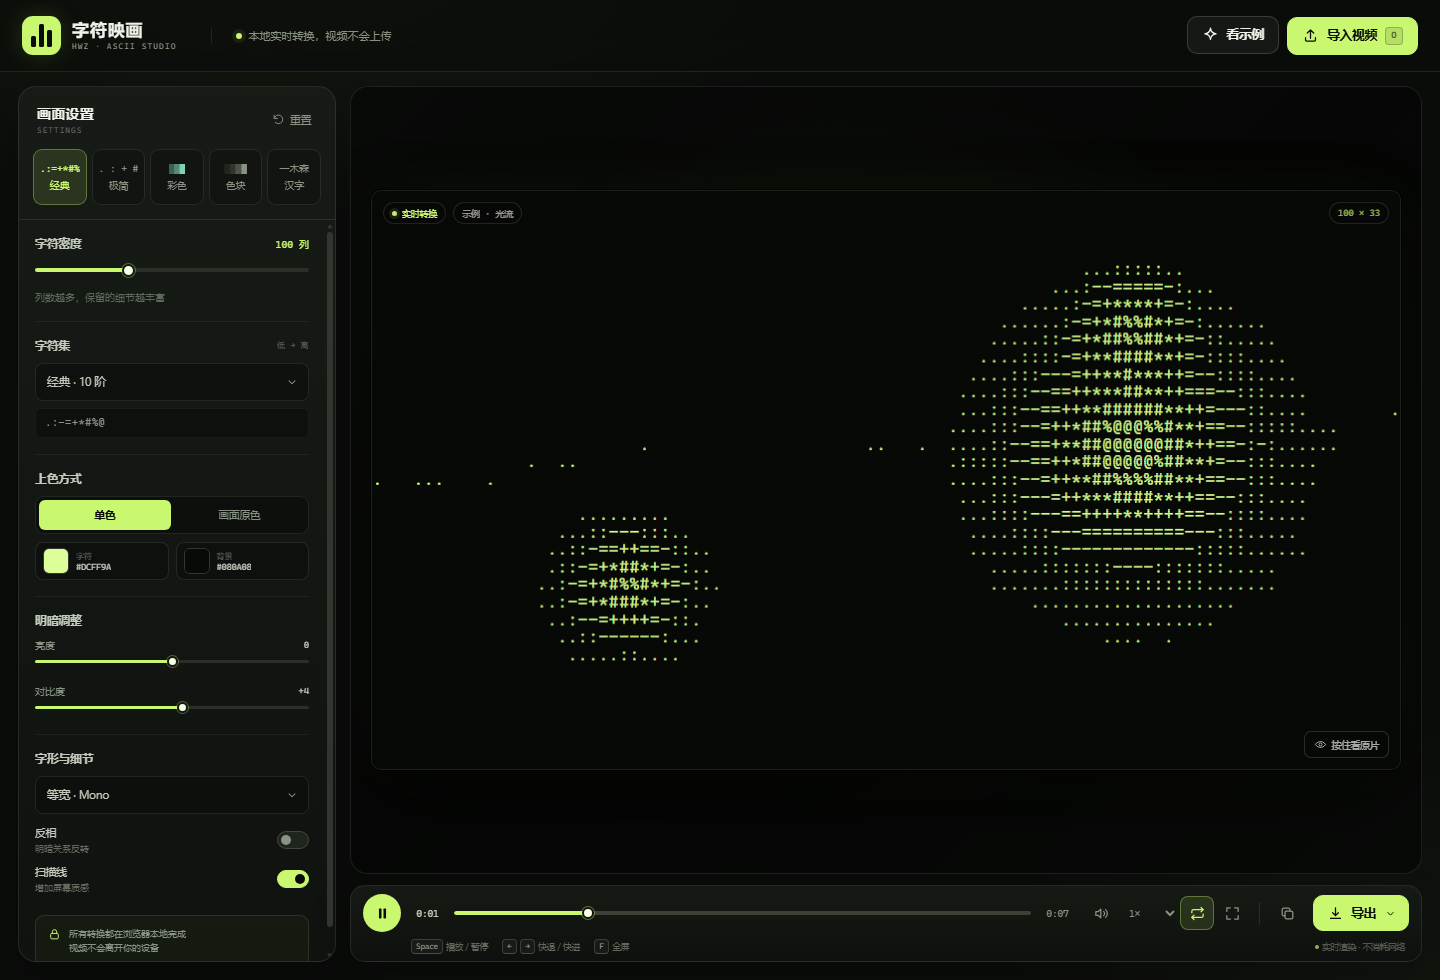
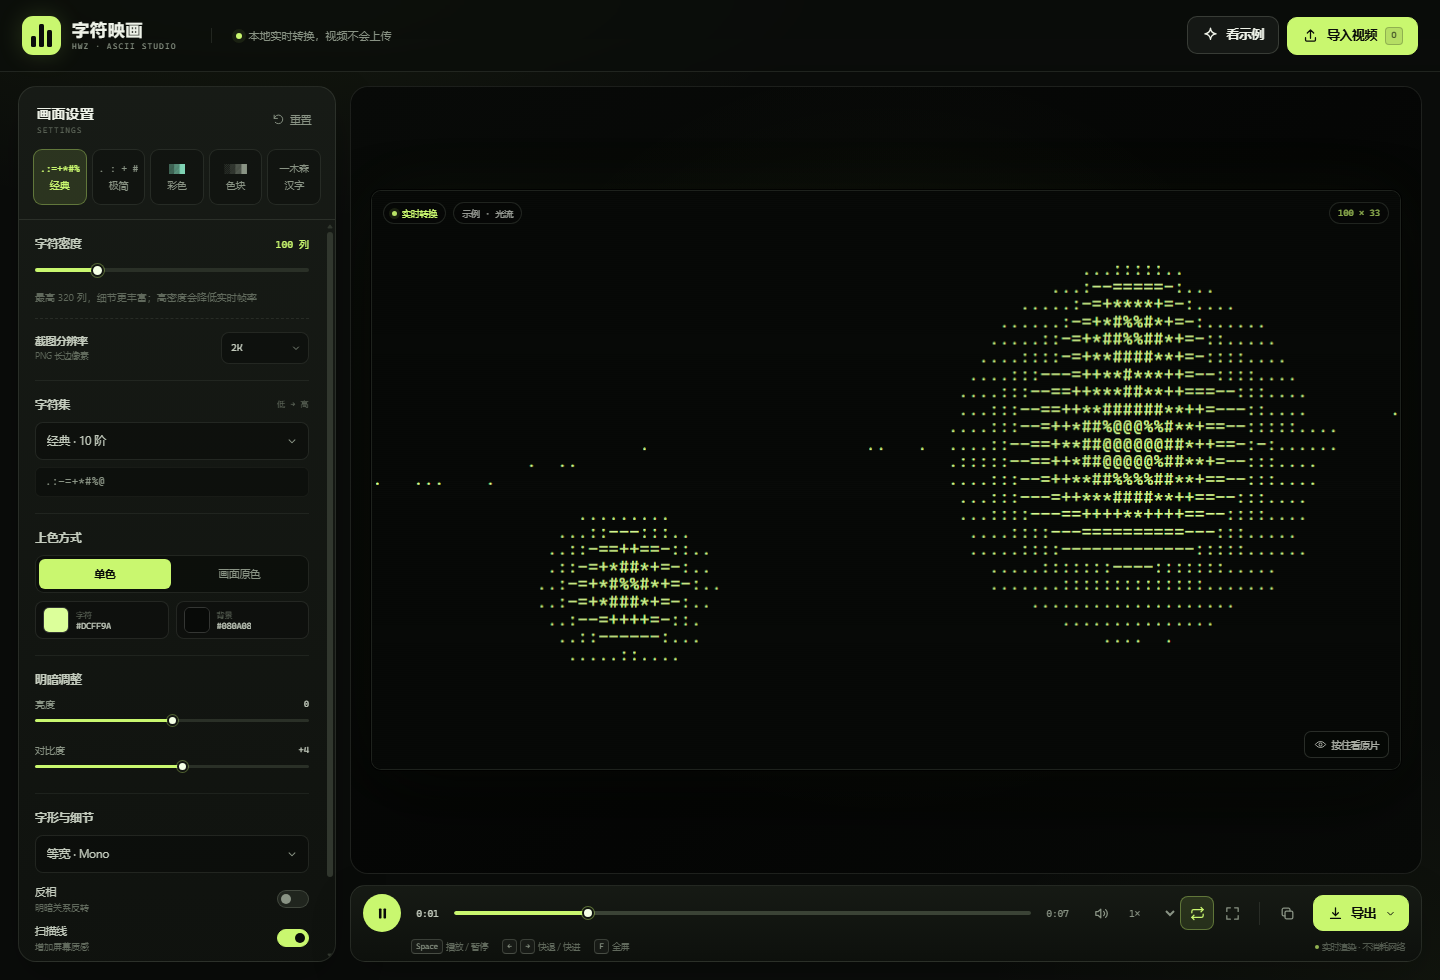
feat: add high-resolution output options

diff --git a/app.js b/app.js
@@ -124,6 +124,7 @@
     invert: false,
     font: "mono",
     scanline: true,
+    outputRes: 2560,
   });
 
   const PRESETS = {
@@ -298,6 +299,7 @@
     font: null,
     invert: null,
     scanline: null,
+    outputRes: null,
     dialog: null,
     dialogTitle: null,
     dialogKicker: null,
@@ -378,6 +380,7 @@
     el.font = $("#font");
     el.invert = $("#invert");
     el.scanline = $("#scanline");
+    el.outputRes = $("#outputRes");
     el.dialog = $("#exportDialog");
     el.dialogTitle = $("#dialogTitle");
     el.dialogKicker = $("#dialogKicker");
@@ -444,6 +447,7 @@
     if (typeof raw.invert === "boolean") next.invert = raw.invert;
     if (Object.prototype.hasOwnProperty.call(FONTS, raw.font)) next.font = raw.font;
     if (typeof raw.scanline === "boolean") next.scanline = raw.scanline;
+    if ([1920, 2560, 3840].includes(Number(raw.outputRes))) next.outputRes = Number(raw.outputRes);
     return next;
   }
 
@@ -610,6 +614,7 @@
     el.font.value = s.font;
     el.invert.checked = s.invert;
     el.scanline.checked = s.scanline;
+    el.outputRes.value = String(s.outputRes);
 
     $$(".preset").forEach((button) => {
       button.classList.toggle("is-active", button.dataset.preset === state.activePreset);
@@ -1121,7 +1126,7 @@
     return lines.join("\n");
   }
 
-  function makeOutputCanvas(longSide = 1920) {
+  function makeOutputCanvas(longSide = 2560) {
     if (!state.hasVideo) return null;
     const aspect = state.videoAspect || 16 / 9;
     let width;
@@ -1219,7 +1224,7 @@
     el.stageFrame.style.width = `${width}px`;
     el.stageFrame.style.height = `${height}px`;
 
-    const dpr = Math.min(window.devicePixelRatio || 1, 2, 2300 / width);
+    const dpr = Math.min(window.devicePixelRatio || 1, 2.5, 3200 / width);
     const backingW = Math.max(2, Math.round(width * dpr));
     const backingH = Math.max(2, Math.round(height * dpr));
     if (el.canvas.width !== backingW || el.canvas.height !== backingH) {
@@ -1238,7 +1243,11 @@
   function tick(now) {
     requestAnimationFrame(tick);
 
-    if (state.recording && now - state.lastRecordAt >= 1000 / 30) {
+    const cells = state.grid.cols * state.grid.rows;
+    const heavyGrid = cells > 22000;
+    const recordInterval = heavyGrid ? 50 : 1000 / 30;
+
+    if (state.recording && now - state.lastRecordAt >= recordInterval) {
       state.lastRecordAt = now;
       renderRecordFrame();
     }
@@ -1252,7 +1261,14 @@
     }
 
     if (el.video.readyState < 2) return;
-    const frameInterval = state.recording ? 110 : 34;
+    let frameInterval = 34;
+    if (state.recording) {
+      frameInterval = heavyGrid ? 200 : 110;
+    } else if (cells > 18000) {
+      frameInterval = 66;
+    } else if (cells > 10000) {
+      frameInterval = 45;
+    }
     if ((state.needsRender || (!el.video.paused && !el.video.ended)) && now - state.lastPreviewAt >= frameInterval) {
       state.lastPreviewAt = now;
       renderPreview();
@@ -1405,7 +1421,7 @@
       if (wasPlaying) playVideo();
       return;
     }
-    const out = makeOutputCanvas(1920);
+    const out = makeOutputCanvas([1920, 2560, 3840].includes(state.settings.outputRes) ? state.settings.outputRes : 2560);
     if (!out) return;
     drawAsciiFrame(out.getContext("2d", { alpha: false }), out.width, out.height, state.grid.cols, state.grid.rows, data);
     const blob = await new Promise((resolve) => out.toBlob(resolve, "image/png"));
@@ -1537,6 +1553,22 @@
     return { start, end, duration, valid: end - start >= 0.025 };
   }
 
+  function getRecordDimensions(quality, aspect = state.videoAspect || 16 / 9) {
+    const shortSide = [720, 1080, 1440, 2160].includes(Number(quality)) ? Number(quality) : 1080;
+    let width;
+    let height;
+    if (aspect >= 1) {
+      height = shortSide;
+      width = Math.round(height * aspect);
+    } else {
+      width = shortSide;
+      height = Math.round(width / aspect);
+    }
+    width = Math.max(2, width - (width % 2));
+    height = Math.max(2, height - (height % 2));
+    return { width, height };
+  }
+
   function updateDialogSummary() {
     if (!state.dialogKind) return;
     const summaryMain = $(".summary-main", el.exportSummary);
@@ -1547,10 +1579,11 @@
       const fromBeginning = $('input[name="recordStart"]:checked')?.value === "beginning";
       const start = fromBeginning ? 0 : el.video.currentTime;
       const remaining = Math.max(0, el.video.duration - start);
-      const quality = `${el.recordQuality.value}p`;
+      const quality = Number.parseInt(el.recordQuality.value, 10) || 1080;
+      const dimensions = getRecordDimensions(quality);
       const audio = el.recordAudio.checked ? "含声音轨" : "无声音轨";
-      summaryMain.textContent = `预计录制 ${formatTime(remaining)} · ${quality}`;
-      summarySub.textContent = `从 ${formatTime(start)} 开始 · ${audio} · 30 fps · ${state.grid.cols} × ${state.grid.rows} 字符`;
+      summaryMain.textContent = `预计录制 ${formatTime(remaining)} · ${quality}p · ${dimensions.width} × ${dimensions.height}`;
+      summarySub.textContent = `从 ${formatTime(start)} 开始 · ${audio} · 30 fps · ${state.grid.cols} × ${state.grid.rows} 字符${quality >= 2160 ? " · 4K 输出 WebM" : ""}`;
       if (remaining < 0.6) {
         summaryMain.textContent = "当前位置已接近视频结尾";
         summaryMain.classList.add("summary-warn");
@@ -2088,18 +2121,23 @@
      Recording
      ============================================================ */
 
-  function chooseRecorderMime() {
+  function chooseRecorderMime(quality = 1080) {
     if (typeof MediaRecorder === "undefined") return "";
-    const candidates = [
-      "video/mp4;codecs=avc1.42E01E,mp4a.40.2",
-      "video/mp4;codecs=avc1.42E01E",
-      "video/mp4",
+    const webm = [
       "video/webm;codecs=vp9,opus",
       "video/webm;codecs=vp8,opus",
       "video/webm;codecs=vp9",
       "video/webm;codecs=vp8",
       "video/webm",
     ];
+    const mp4 = [
+      "video/mp4;codecs=avc1.42E01E,mp4a.40.2",
+      "video/mp4;codecs=avc1.42E01E",
+      "video/mp4",
+    ];
+    // H.264 MP4 is the best choice for 1080p/1440p. For 4K, VP9 WebM
+    // starts encoding more reliably in browsers and has broad support.
+    const candidates = quality >= 2160 ? [...webm, ...mp4] : [...mp4, ...webm];
     for (const type of candidates) {
       try {
         if (MediaRecorder.isTypeSupported(type)) return type;
@@ -2146,7 +2184,7 @@
 
   async function startRecording({ startAt, quality, includeAudio }) {
     if (state.recording) return;
-    const mime = chooseRecorderMime();
+    const mime = chooseRecorderMime(quality);
     if (!mime) {
       showToast("当前浏览器不支持 WebM 录制", "error");
       return;
@@ -2163,18 +2201,7 @@
       await seekVideo(startAt);
       await waitForVideoFrame();
 
-      const aspect = state.videoAspect || 16 / 9;
-      let width;
-      let height;
-      if (aspect >= 1) {
-        width = quality;
-        height = Math.round(width / aspect);
-      } else {
-        height = quality;
-        width = Math.round(height * aspect);
-      }
-      width = Math.max(2, width - (width % 2));
-      height = Math.max(2, height - (height % 2));
+      const { width, height } = getRecordDimensions(quality);
 
       const recordCanvas = document.createElement("canvas");
       recordCanvas.width = width;
@@ -2190,9 +2217,10 @@
         stream.addTrack(state.audioDest.stream.getAudioTracks()[0]);
       }
 
+      const videoBitrate = quality >= 2160 ? 24000000 : quality >= 1440 ? 18000000 : quality >= 1080 ? 10000000 : 5000000;
       const options = {
         mimeType: mime,
-        videoBitsPerSecond: quality >= 1440 ? 14000000 : quality >= 1080 ? 9000000 : 5000000,
+        videoBitsPerSecond: videoBitrate,
       };
       if (audioIncluded) options.audioBitsPerSecond = 128000;
 
@@ -2365,6 +2393,12 @@
     el.font.addEventListener("change", () => commitSettings({ font: el.font.value }));
     el.invert.addEventListener("change", () => commitSettings({ invert: el.invert.checked }));
     el.scanline.addEventListener("change", () => commitSettings({ scanline: el.scanline.checked }));
+    el.outputRes.addEventListener("change", () => {
+      const value = Number(el.outputRes.value) || 2560;
+      commitSettings({ outputRes: value });
+      const label = el.outputRes.selectedOptions[0]?.textContent || `${value}px`;
+      showToast(`截图分辨率：${label}`);
+    });
 
     el.playBtn.addEventListener("click", togglePlay);
     el.seek.addEventListener("pointerdown", () => { state.scrubbing = true; });

diff --git a/index.html b/index.html
@@ -111,8 +111,22 @@
               <label for="density">字符密度</label>
               <output id="densityOut" for="density">100 列</output>
             </div>
-            <input id="density" class="range" type="range" min="40" max="220" step="2" value="100">
-            <p class="hint">列数越多，保留的细节越丰富</p>
+            <input id="density" class="range" type="range" min="40" max="320" step="2" value="100">
+            <p class="hint">最高 320 列，细节更丰富；高密度会降低实时帧率</p>
+            <div class="resolution-row">
+              <span class="resolution-copy">
+                <span>截图分辨率</span>
+                <small>PNG 长边像素</small>
+              </span>
+              <span class="select-wrap resolution-select">
+                <select id="outputRes" aria-label="PNG 截图分辨率">
+                  <option value="1920">1080P</option>
+                  <option value="2560">2K</option>
+                  <option value="3840">4K</option>
+                </select>
+                <svg class="icon select-chevron"><use href="#i-chevron"></use></svg>
+              </span>
+            </div>
           </section>
 
           <section class="control-group">
@@ -444,6 +458,7 @@
               <option value="720">720p</option>
               <option value="1080" selected>1080p</option>
               <option value="1440">1440p</option>
+              <option value="2160">2160p · 4K</option>
             </select>
             <svg class="icon select-chevron"><use href="#i-chevron"></use></svg>
           </span>

diff --git a/styles.css b/styles.css
@@ -532,6 +532,52 @@ kbd {
   line-height: 1.45;
 }
 
+.resolution-row {
+  display: flex;
+  align-items: center;
+  justify-content: space-between;
+  gap: 12px;
+  margin-top: 13px;
+  padding-top: 13px;
+  border-top: 1px dashed rgba(232, 245, 222, 0.09);
+}
+
+.resolution-copy {
+  display: flex;
+  min-width: 0;
+  flex: 1;
+  flex-direction: column;
+  gap: 2px;
+  color: var(--text-soft);
+  font-size: 10.5px;
+  font-weight: 550;
+}
+
+.resolution-copy small {
+  color: var(--muted-dim);
+  font-size: 8.5px;
+  font-weight: 400;
+}
+
+.resolution-row .resolution-select {
+  width: 88px;
+  flex: none;
+}
+
+.resolution-row .resolution-select select {
+  height: 32px;
+  padding-right: 25px;
+  padding-left: 9px;
+  font-family: var(--font-mono);
+  font-size: 10px;
+}
+
+.resolution-row .resolution-select .select-chevron {
+  right: 7px;
+  width: 12px;
+  height: 12px;
+}
+
 /* Range controls */
 
 .range {

diff --git a/README.md b/README.md
@@ -20,7 +20,9 @@
 ### 实时字符画
 
 - 视频逐帧采样，按明暗映射到字符，边播边生成连续字符画。
-- 横向字符数可在 **40–220 列**之间调节，自动按视频比例计算行数。
+- 横向字符数可在 **40–320 列**之间调节，自动按视频比例计算行数。
+- 字符网格超过一定规模时自动降低预览帧率，优先保证操作流畅。
+- PNG 截图分辨率可选 **1080P / 2K / 4K**（长边 1920 / 2560 / 3840 px）。
 - 5 种一键风格：经典、极简、彩色、色块、汉字。
 - 7 种字符集：经典、细腻 70 阶、极简、色块、汉字、数字、自定义。
 - 自定义字符集：输入任意字符，按从暗到亮的顺序排列。
@@ -40,15 +42,17 @@
 
 | 格式 | 内容 |
 | --- | --- |
-| **PNG** | 当前帧高清字符画，长边 1920 px |
+| **PNG** | 当前帧高清字符画，长边可选 1080P / 2K / 4K |
 | **TXT** | 当前帧纯文本字符矩阵 |
 | **ZIP** | 按帧编号的连续 TXT 序列，附 README 说明 |
 | **HTML** | 内嵌全部字符帧的单文件动画网页，可离线播放 |
-| **MP4 / WebM** | 录制字符画视频，可包含原声；支持 720p / 1080p / 1440p |
+| **MP4 / WebM** | 录制字符画视频，可包含原声；支持 720p / 1080p / 1440p / 2160p（4K） |
 
 - 导出 ZIP / HTML 时可设置起止时间和帧率（6–24 fps）。
 - 帧数过多时会提示缩短范围或降低帧率，避免浏览器卡死。
-- 浏览器支持时优先录制 MP4（H.264 + AAC），否则自动回退到 WebM。
+- 录制分辨率为标准短边像素：1080p = 1920×1080，1440p = 2560×1440，2160p = 3840×2160。
+- 1080p / 1440p 优先录制 MP4（H.264 + AAC）；4K 使用 WebM（VP9 + Opus），兼容更多机器的 4K 编码。
+- 浏览器不支持 MP4 时自动回退到 WebM。
 - 录制过程中可以实时调整画面设置，修改会立即反映到录制画面中。
 - 文本与 HTML 只保存单色字符；PNG 和视频会保留当前颜色设置。
 
@@ -119,7 +123,7 @@ HWZ字符画转换工具/
 录制前确认「包含视频声音（若有）」已勾选，并确认原视频本身带有音轨。部分浏览器只支持 WebM 录制，对音频编码的支持也不同。
 
 **录制卡顿？**  
-录制是实时进行的，请保持页面在前台，并关闭其他占用显卡或 CPU 的程序。也可以将录制画质从 1080p 调到 720p。
+录制是实时进行的，请保持页面在前台，并关闭其他占用显卡或 CPU 的程序。4K 录制建议把字符密度控制在 200 列以内；如果仍然卡顿，可将画质降到 1440p 或 1080p。
 
 **server.exe 被安全软件拦截？**  
 它是一个只监听 `127.0.0.1`、仅用于读取当前文件夹静态文件的本地服务。你可以信任并放行，或双击 `tools/build-server.bat` 从附带的 `tools/Server.cs` 源码重新生成。
